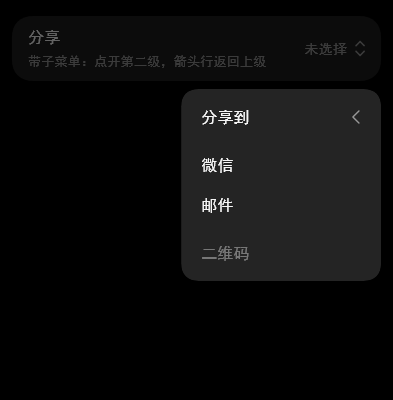
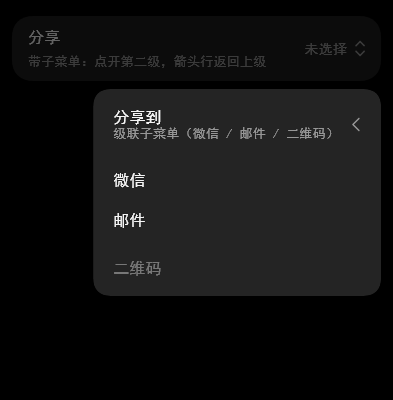
fix(menu): 级联切换对齐参考实现的两层结构
返回行照抄父项副文（漏掉会让整列上移 → 两层按行错位，切换时看着像
「两页错乱叠字」）；滚动体移进切换子树，每层各一条滚动轴（原先两层共用
一条，旧层偏移会带到新层）。行为与参考实现的 AnimatedSwitcher 一致：
200ms、easeOut/easeIn、0.95→1，顶对齐叠放、不做高度插值。

diff --git a/lib/src/overlays/menu/menu.dart b/lib/src/overlays/menu/menu.dart
@@ -571,28 +571,41 @@ class _MiMenuPanelState extends State<_MiMenuPanel>
           // 宽度按内容取（下限 200 / 上限 288）；行少时面板就是内容宽，
           // 长文案单行省略 —— 与参考实现的「按前 8 项最宽者定宽」同效。
           child: IntrinsicWidth(
-            child: SingleChildScrollView(
-              physics: const ClampingScrollPhysics(),
-              child: AnimatedSwitcher(
-                duration: const Duration(milliseconds: MiMenuMetrics.submenuMs),
-                switchInCurve: Curves.easeOut,
-                switchOutCurve: Curves.easeIn,
-                transitionBuilder: (child, animation) => FadeTransition(
-                  opacity: animation,
-                  child: ScaleTransition(
-                    scale: Tween<double>(
-                      begin: MiMenuMetrics.submenuScale,
-                      end: 1,
-                    ).animate(animation),
-                    child: child,
-                  ),
+            // 切换层级：整层（含各自的滚动体）做 0.95→1 + 淡入淡出，两层
+            // 由 Stack 顶对齐叠放 —— 与参考实现同为「就地换内容」，不做
+            // 高度插值。滚动体必须**在切换子树之内**（每层各一个），否则
+            // 两层共用一条滚动轴，旧层的偏移会带到新层。
+            child: AnimatedSwitcher(
+              duration: const Duration(milliseconds: MiMenuMetrics.submenuMs),
+              switchInCurve: Curves.easeOut,
+              switchOutCurve: Curves.easeIn,
+              transitionBuilder: (child, animation) => FadeTransition(
+                opacity: animation,
+                child: ScaleTransition(
+                  scale: Tween<double>(
+                    begin: MiMenuMetrics.submenuScale,
+                    end: 1,
+                  ).animate(animation),
+                  child: child,
                 ),
-                child: _content(mode, palette),
               ),
+              child: _levelView(mode, palette),
             ),
           ),
         ),
       ),
+    );
+  }
+
+  /// 当前层级的滚动体（键随层级变化，`AnimatedSwitcher` 才会换内容）。
+  Widget _levelView(MiThemeMode mode, MiMenuPalette palette) {
+    final level = _path.length;
+    return SingleChildScrollView(
+      key: ValueKey<String>(
+        'mi-menu-level-$level-${level == 0 ? '' : _path.last.label}',
+      ),
+      physics: const ClampingScrollPhysics(),
+      child: _content(mode, palette),
     );
   }
 
@@ -630,10 +643,16 @@ class _MiMenuPanelState extends State<_MiMenuPanel>
     } else {
       final parent = _path.last;
       final children = parent.children;
-      // 子列表首行 = 返回上级（同名行 + 右向箭头，参考实现的级联导航）。
+      // 子列表首行 = 返回上级（同名行 + 左向箭头，参考实现的级联导航）。
+      // 副文照抄父项：参考实现同样整行复用父项，两层的首行等高才能让切换
+      // 时上下两层按行对齐（少写副文会让整列上移，看起来是「两页错位叠」）。
       columns.add(
         _row(
-          item: MiMenuItem(label: parent.label, leading: parent.leading),
+          item: MiMenuItem(
+            label: parent.label,
+            subtitle: parent.subtitle,
+            leading: parent.leading,
+          ),
           mode: mode,
           palette: palette,
           isFirst: true,
@@ -670,9 +689,6 @@ class _MiMenuPanelState extends State<_MiMenuPanel>
       }
     }
     return Column(
-      key: ValueKey<String>(
-        'mi-menu-level-$level-${level == 0 ? '' : _path.last.label}',
-      ),
       mainAxisSize: MainAxisSize.min,
       crossAxisAlignment: CrossAxisAlignment.stretch,
       children: columns,
